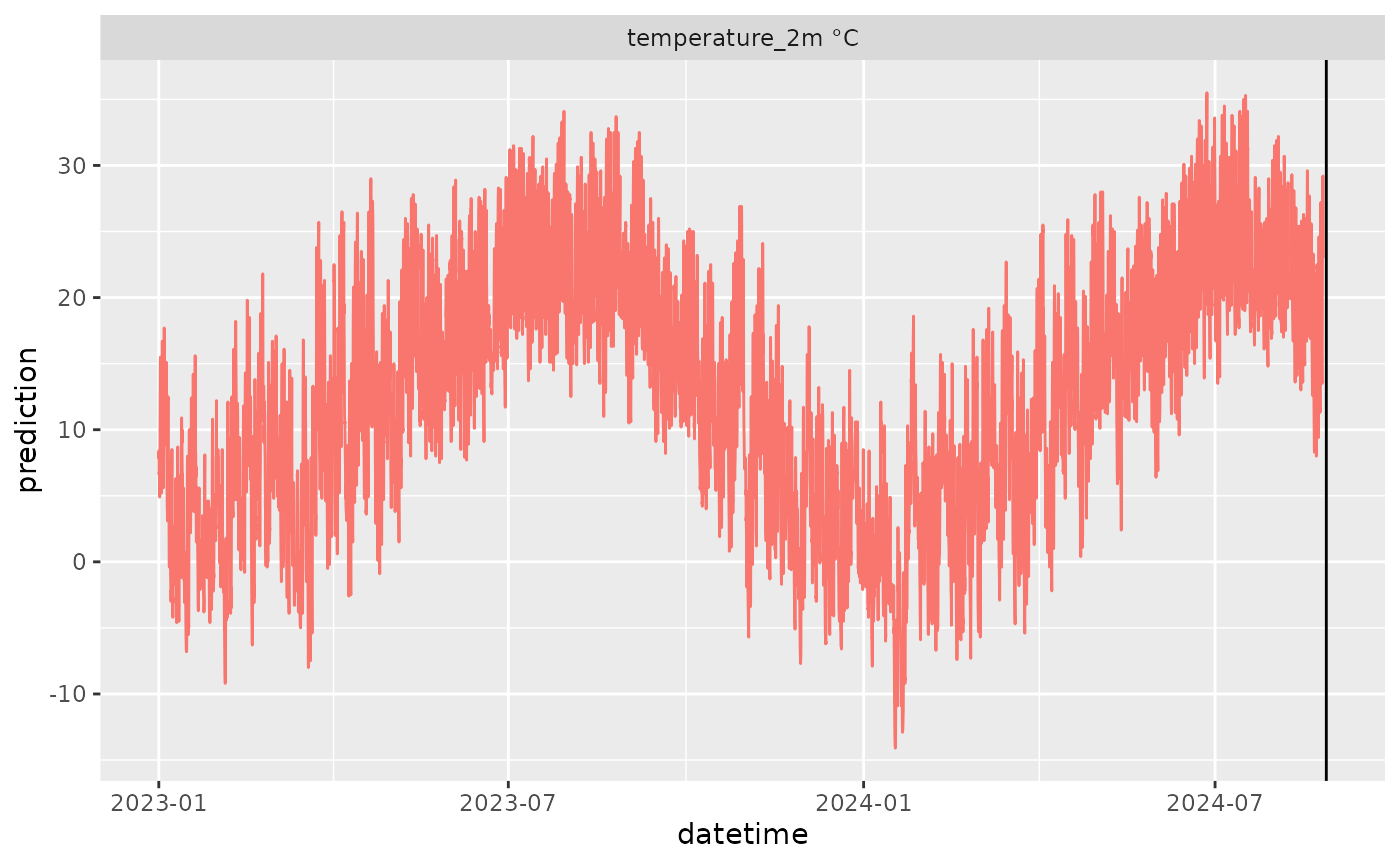
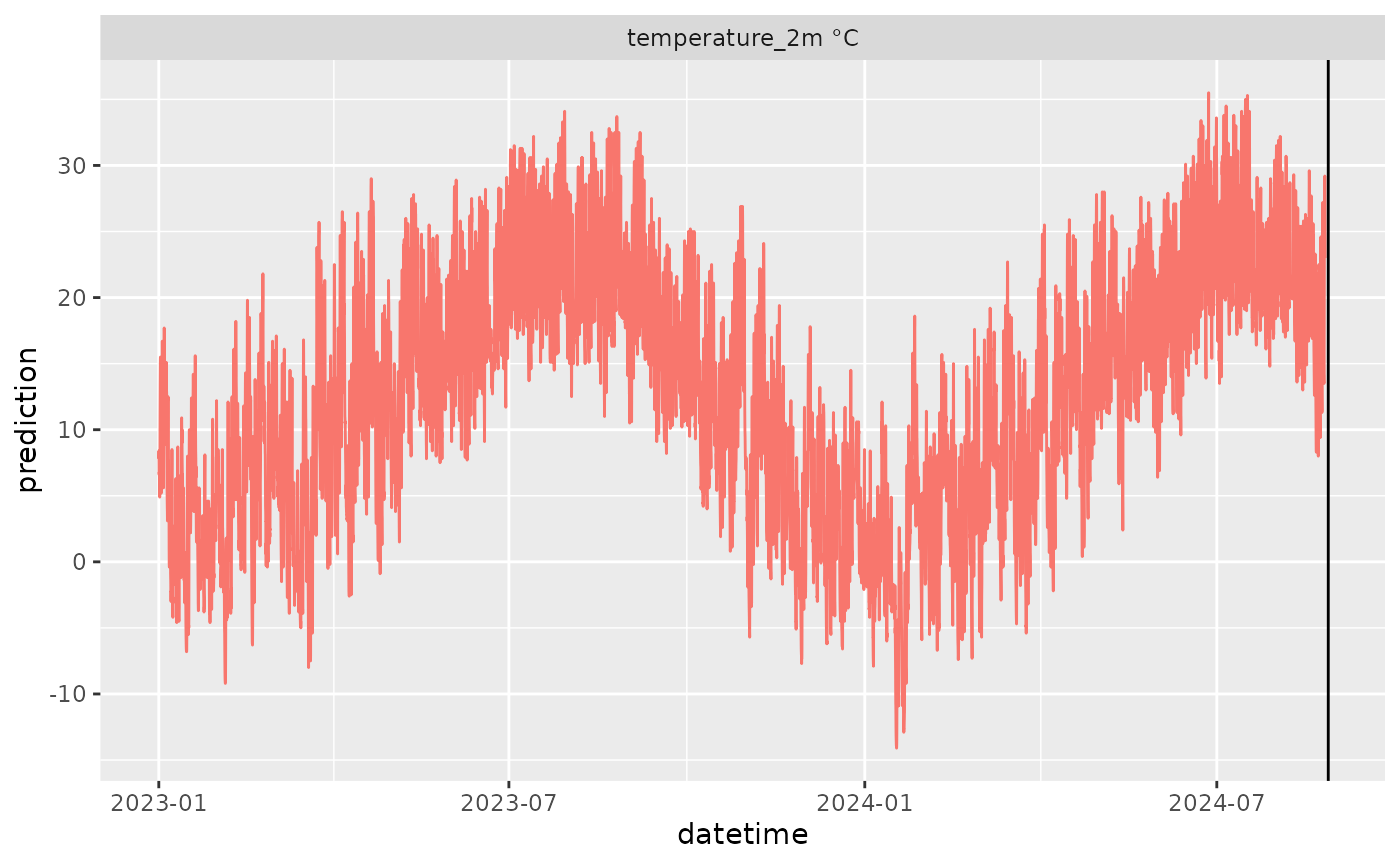
Deploying to gh-pages from @ FLARE-forecast/RopenMeteo@b63a894a33fa62a6a23b3256afc8c1f7b567f8c1 🚀

diff --git a/articles/example_usage.html b/articles/example_usage.html
@@ -269,7 +269,7 @@ API.</p>
 <span>  latitude <span class="op">=</span> <span class="fl">37.30</span>,</span>
 <span>  longitude <span class="op">=</span> <span class="op">-</span><span class="fl">79.83</span>,</span>
 <span>  start_date <span class="op">=</span> <span class="st">"2023-01-01"</span>,</span>
-<span>  end_date <span class="op">=</span> <span class="fu"><a href="https://rdrr.io/r/base/Sys.time.html" class="external-link">Sys.Date</a></span><span class="op">(</span><span class="op">)</span>,</span>
+<span>  end_date <span class="op">=</span> <span class="fu"><a href="https://rdrr.io/r/base/Sys.time.html" class="external-link">Sys.Date</a></span><span class="op">(</span><span class="op">)</span> <span class="op">-</span> <span class="fu">lubridate</span><span class="fu">::</span><span class="fu"><a href="https://lubridate.tidyverse.org/reference/period.html" class="external-link">days</a></span><span class="op">(</span><span class="fl">1</span><span class="op">)</span>,</span>
 <span>  variables <span class="op">=</span> <span class="fu"><a href="https://rdrr.io/r/base/c.html" class="external-link">c</a></span><span class="op">(</span><span class="st">"temperature_2m"</span><span class="op">)</span><span class="op">)</span> </span>
 <span><span class="fu"><a href="https://rdrr.io/r/utils/head.html" class="external-link">tail</a></span><span class="op">(</span><span class="va">df</span> <span class="op">|&gt;</span> <span class="fu"><a href="https://rdrr.io/r/stats/na.fail.html" class="external-link">na.omit</a></span><span class="op">(</span><span class="op">)</span><span class="op">)</span></span>
 <span><span class="co">#&gt; <span style="color: #949494;"># A tibble: 6 × 6</span></span></span>
@@ -289,7 +289,7 @@ API.</p>
 <span>  <span class="fu"><a href="https://ggplot2.tidyverse.org/reference/geom_path.html" class="external-link">geom_line</a></span><span class="op">(</span>color <span class="op">=</span> <span class="st">"#F8766D"</span><span class="op">)</span> <span class="op">+</span> </span>
 <span>  <span class="fu"><a href="https://ggplot2.tidyverse.org/reference/geom_abline.html" class="external-link">geom_vline</a></span><span class="op">(</span><span class="fu"><a href="https://ggplot2.tidyverse.org/reference/aes.html" class="external-link">aes</a></span><span class="op">(</span>xintercept <span class="op">=</span> <span class="fu">lubridate</span><span class="fu">::</span><span class="fu"><a href="https://lubridate.tidyverse.org/reference/with_tz.html" class="external-link">with_tz</a></span><span class="op">(</span><span class="fu"><a href="https://rdrr.io/r/base/Sys.time.html" class="external-link">Sys.time</a></span><span class="op">(</span><span class="op">)</span>, tzone <span class="op">=</span> <span class="st">"UTC"</span><span class="op">)</span><span class="op">)</span><span class="op">)</span> <span class="op">+</span> </span>
 <span>  <span class="fu"><a href="https://ggplot2.tidyverse.org/reference/facet_wrap.html" class="external-link">facet_wrap</a></span><span class="op">(</span><span class="op">~</span><span class="va">variable</span>, scale <span class="op">=</span> <span class="st">"free"</span><span class="op">)</span></span>
-<span><span class="co">#&gt; Warning: Removed 47 rows containing missing values or values outside the scale range</span></span>
+<span><span class="co">#&gt; Warning: Removed 23 rows containing missing values or values outside the scale range</span></span>
 <span><span class="co">#&gt; (`geom_line()`).</span></span></code></pre></div>
 <p><img src="example_usage_files/figure-html/hist-plot-1.png" width="700"></p>
 </div>
@@ -340,7 +340,7 @@ the NOAA Climate Forecasting System</p>
 <span>  variables <span class="op">=</span> <span class="fu"><a href="../reference/glm_variables.html">glm_variables</a></span><span class="op">(</span>product <span class="op">=</span> <span class="st">"seasonal_forecast"</span>, </span>
 <span>                            time_step <span class="op">=</span> <span class="st">"6hourly"</span><span class="op">)</span><span class="op">)</span></span>
 <span><span class="co">#&gt; Waiting 5s for throttling delay <span style="color: #00BB00;">■■■■■■                          </span></span></span>
-<span><span class="co">#&gt; Waiting 5s for throttling delay <span style="color: #00BB00;">■■■■■■■■■■■■■■■■■■■■■■          </span></span></span>
+<span><span class="co">#&gt; Waiting 5s for throttling delay <span style="color: #00BB00;">■■■■■■■■■■■■■■■■■■■■■■■         </span></span></span>
 <span><span class="co">#&gt; Waiting 5s for throttling delay <span style="color: #00BB00;">■■■■■■■■■■■■■■■■■■■■■■■■■■■■■■■ </span></span></span></code></pre></div>
 <div class="sourceCode" id="cb17"><pre class="downlit sourceCode r">
 <code class="sourceCode R"><span><span class="va">df</span> <span class="op">|&gt;</span> </span>
@@ -409,25 +409,25 @@ projection.</p>
 <span>    variables <span class="op">=</span> <span class="fu"><a href="https://rdrr.io/r/base/c.html" class="external-link">c</a></span><span class="op">(</span><span class="st">"temperature_2m_mean"</span><span class="op">)</span><span class="op">)</span></span>
 <span><span class="op">}</span><span class="op">)</span></span>
 <span><span class="co">#&gt; Waiting 5s for throttling delay <span style="color: #00BB00;">■■■■■■                          </span></span></span>
-<span><span class="co">#&gt; Waiting 5s for throttling delay <span style="color: #00BB00;">■■■■■■■■■■■■■■                  </span></span></span>
-<span><span class="co">#&gt; Waiting 5s for throttling delay <span style="color: #00BB00;">■■■■■■■■■■■■■■■■■■■■■■■■■■■■■■■ </span></span></span>
-<span><span class="co">#&gt; Waiting 6s for throttling delay <span style="color: #00BB00;">■■■■■■                          </span></span></span>
-<span><span class="co">#&gt; Waiting 6s for throttling delay <span style="color: #00BB00;">■■■■■■■■■■■■■■■■■               </span></span></span>
-<span><span class="co">#&gt; Waiting 6s for throttling delay <span style="color: #00BB00;">■■■■■■■■■■■■■■■■■■■■■■■■■■■■■■■ </span></span></span>
-<span><span class="co">#&gt; Waiting 6s for throttling delay <span style="color: #00BB00;">■■■■■■                          </span></span></span>
-<span><span class="co">#&gt; Waiting 6s for throttling delay <span style="color: #00BB00;">■■■■■■■■■■■■■■■■                </span></span></span>
-<span><span class="co">#&gt; Waiting 6s for throttling delay <span style="color: #00BB00;">■■■■■■■■■■■■■■■■■■■■■■■■■■■■■■■ </span></span></span>
-<span><span class="co">#&gt; Waiting 6s for throttling delay <span style="color: #00BB00;">■■■■■■                          </span></span></span>
-<span><span class="co">#&gt; Waiting 6s for throttling delay <span style="color: #00BB00;">■■■■■■■■■■■■■■■■                </span></span></span>
-<span><span class="co">#&gt; Waiting 6s for throttling delay <span style="color: #00BB00;">■■■■■■■■■■■■■■■■■■■■■■■■■■■■■■  </span></span></span>
-<span><span class="co">#&gt; Waiting 6s for throttling delay <span style="color: #00BB00;">■■■■■■■■■■■■■■■■■■■■■■■■■■■■■■■ </span></span></span>
 <span><span class="co">#&gt; Waiting 5s for throttling delay <span style="color: #00BB00;">■■■■■■■■■■■■■■■■■               </span></span></span>
 <span><span class="co">#&gt; Waiting 5s for throttling delay <span style="color: #00BB00;">■■■■■■■■■■■■■■■■■■■■■■■■■■■■■■■ </span></span></span>
 <span><span class="co">#&gt; Waiting 6s for throttling delay <span style="color: #00BB00;">■■■■■■                          </span></span></span>
 <span><span class="co">#&gt; Waiting 6s for throttling delay <span style="color: #00BB00;">■■■■■■■■■■■■■■■■■■■             </span></span></span>
 <span><span class="co">#&gt; Waiting 6s for throttling delay <span style="color: #00BB00;">■■■■■■■■■■■■■■■■■■■■■■■■■■■■■■■ </span></span></span>
+<span><span class="co">#&gt; Waiting 5s for throttling delay <span style="color: #00BB00;">■■■■■■                          </span></span></span>
+<span><span class="co">#&gt; Waiting 5s for throttling delay <span style="color: #00BB00;">■■■■■■■■■■■■■■■■■■■■■           </span></span></span>
+<span><span class="co">#&gt; Waiting 5s for throttling delay <span style="color: #00BB00;">■■■■■■■■■■■■■■■■■■■■■■■■■■■■■■■ </span></span></span>
+<span><span class="co">#&gt; Waiting 6s for throttling delay <span style="color: #00BB00;">■■■■■■■                         </span></span></span>
+<span><span class="co">#&gt; Waiting 6s for throttling delay <span style="color: #00BB00;">■■■■■■■■■■■■■■■■■■■■■■          </span></span></span>
+<span><span class="co">#&gt; Waiting 6s for throttling delay <span style="color: #00BB00;">■■■■■■■■■■■■■■■■■■■■■■■■■■■■■■■ </span></span></span>
+<span><span class="co">#&gt; Waiting 6s for throttling delay <span style="color: #00BB00;">■■■■■■■                         </span></span></span>
+<span><span class="co">#&gt; Waiting 6s for throttling delay <span style="color: #00BB00;">■■■■■■■■■■■■■■■■■■■■■■          </span></span></span>
+<span><span class="co">#&gt; Waiting 6s for throttling delay <span style="color: #00BB00;">■■■■■■■■■■■■■■■■■■■■■■■■■■■■■■■ </span></span></span>
 <span><span class="co">#&gt; Waiting 6s for throttling delay <span style="color: #00BB00;">■■■■■■                          </span></span></span>
-<span><span class="co">#&gt; Waiting 6s for throttling delay <span style="color: #00BB00;">■■■■■■■■■■■■■■■■■■■             </span></span></span>
+<span><span class="co">#&gt; Waiting 6s for throttling delay <span style="color: #00BB00;">■■■■■■■■■■■■■■■■■■■■■           </span></span></span>
+<span><span class="co">#&gt; Waiting 6s for throttling delay <span style="color: #00BB00;">■■■■■■■■■■■■■■■■■■■■■■■■■■■■■■■ </span></span></span>
+<span><span class="co">#&gt; Waiting 6s for throttling delay <span style="color: #00BB00;">■■■■■■                          </span></span></span>
+<span><span class="co">#&gt; Waiting 6s for throttling delay <span style="color: #00BB00;">■■■■■■■■■■■■■■■■■■■■            </span></span></span>
 <span><span class="co">#&gt; Waiting 6s for throttling delay <span style="color: #00BB00;">■■■■■■■■■■■■■■■■■■■■■■■■■■■■■■■ </span></span></span></code></pre></div>
 <div class="sourceCode" id="cb21"><pre class="downlit sourceCode r">
 <code class="sourceCode R"><span><span class="va">df</span> <span class="op">|&gt;</span> </span>
@@ -458,11 +458,12 @@ to add column that denotes the different sites.</p>
 <span>    variables <span class="op">=</span> <span class="fu"><a href="https://rdrr.io/r/base/c.html" class="external-link">c</a></span><span class="op">(</span><span class="st">"temperature_2m_mean"</span><span class="op">)</span><span class="op">)</span></span>
 <span><span class="op">}</span>,</span>
 <span><span class="va">sites</span><span class="op">)</span></span>
-<span><span class="co">#&gt; Waiting 6s for throttling delay <span style="color: #00BB00;">■■■■■■                          </span></span></span>
-<span><span class="co">#&gt; Waiting 6s for throttling delay <span style="color: #00BB00;">■■■■■■■■■■■■■■■■                </span></span></span>
-<span><span class="co">#&gt; Waiting 6s for throttling delay <span style="color: #00BB00;">■■■■■■■■■■■■■■■■■■■■■■■■■■■■■■■ </span></span></span>
-<span><span class="co">#&gt; Waiting 5s for throttling delay <span style="color: #00BB00;">■■■■■■■■■■■■■■■■■■              </span></span></span>
+<span><span class="co">#&gt; Waiting 5s for throttling delay <span style="color: #00BB00;">■■■■■■                          </span></span></span>
+<span><span class="co">#&gt; Waiting 5s for throttling delay <span style="color: #00BB00;">■■■■■■■■■■■■■■■■■■■■■           </span></span></span>
 <span><span class="co">#&gt; Waiting 5s for throttling delay <span style="color: #00BB00;">■■■■■■■■■■■■■■■■■■■■■■■■■■■■■■■ </span></span></span>
+<span><span class="co">#&gt; Waiting 6s for throttling delay <span style="color: #00BB00;">■■■■■■■                         </span></span></span>
+<span><span class="co">#&gt; Waiting 6s for throttling delay <span style="color: #00BB00;">■■■■■■■■■■■■■■■■■■■■■■          </span></span></span>
+<span><span class="co">#&gt; Waiting 6s for throttling delay <span style="color: #00BB00;">■■■■■■■■■■■■■■■■■■■■■■■■■■■■■■■ </span></span></span>
 <span><span class="fu"><a href="https://rdrr.io/r/utils/head.html" class="external-link">head</a></span><span class="op">(</span><span class="va">df</span><span class="op">)</span></span>
 <span><span class="co">#&gt; <span style="color: #949494;"># A tibble: 6 × 6</span></span></span>
 <span><span class="co">#&gt;   datetime   site_id model_id      variable            prediction unit </span></span>
@@ -501,22 +502,23 @@ applied to each hour.</p>
 <span>  model <span class="op">=</span> <span class="st">"EC_Earth3P_HR"</span>,</span>
 <span>  variables <span class="op">=</span> <span class="fu"><a href="../reference/glm_variables.html">glm_variables</a></span><span class="op">(</span>product <span class="op">=</span> <span class="st">"climate_projection"</span>, time_step <span class="op">=</span> <span class="st">"daily"</span><span class="op">)</span><span class="op">)</span></span>
 <span><span class="co">#&gt; Waiting 6s for throttling delay <span style="color: #00BB00;">■■■■■■                          </span></span></span>
-<span><span class="co">#&gt; Waiting 6s for throttling delay <span style="color: #00BB00;">■■■■■■■■■■■■■■■■■■              </span></span></span>
+<span><span class="co">#&gt; Waiting 6s for throttling delay <span style="color: #00BB00;">■■■■■■■■■■■■■■■■■■■■            </span></span></span>
 <span><span class="co">#&gt; Waiting 6s for throttling delay <span style="color: #00BB00;">■■■■■■■■■■■■■■■■■■■■■■■■■■■■■■■ </span></span></span>
 <span><span class="co">#&gt; Waiting 6s for throttling delay <span style="color: #00BB00;">■■■■■■                          </span></span></span>
-<span><span class="co">#&gt; Waiting 6s for throttling delay <span style="color: #00BB00;">■■■■■■■■■■■■■■■■■               </span></span></span>
+<span><span class="co">#&gt; Waiting 6s for throttling delay <span style="color: #00BB00;">■■■■■■■■■■■■■■■■■■■             </span></span></span>
 <span><span class="co">#&gt; Waiting 6s for throttling delay <span style="color: #00BB00;">■■■■■■■■■■■■■■■■■■■■■■■■■■■■■■■ </span></span></span>
 <span><span class="co">#&gt; Waiting 6s for throttling delay <span style="color: #00BB00;">■■■■■■                          </span></span></span>
-<span><span class="co">#&gt; Waiting 6s for throttling delay <span style="color: #00BB00;">■■■■■■■■■■■■■■■■                </span></span></span>
+<span><span class="co">#&gt; Waiting 6s for throttling delay <span style="color: #00BB00;">■■■■■■■■■■■■■■■■■■■             </span></span></span>
 <span><span class="co">#&gt; Waiting 6s for throttling delay <span style="color: #00BB00;">■■■■■■■■■■■■■■■■■■■■■■■■■■■■■■■ </span></span></span>
-<span><span class="co">#&gt; Waiting 6s for throttling delay <span style="color: #00BB00;">■■■■■■                          </span></span></span>
-<span><span class="co">#&gt; Waiting 6s for throttling delay <span style="color: #00BB00;">■■■■■■■■■■■■■■■■                </span></span></span>
+<span><span class="co">#&gt; Waiting 5s for throttling delay <span style="color: #00BB00;">■■■■■■                          </span></span></span>
+<span><span class="co">#&gt; Waiting 5s for throttling delay <span style="color: #00BB00;">■■■■■■■■■■■■■■■■■■■■■■          </span></span></span>
+<span><span class="co">#&gt; Waiting 5s for throttling delay <span style="color: #00BB00;">■■■■■■■■■■■■■■■■■■■■■■■■■■■■■■■ </span></span></span>
+<span><span class="co">#&gt; Waiting 6s for throttling delay <span style="color: #00BB00;">■■■■■■■■                        </span></span></span>
+<span><span class="co">#&gt; Waiting 6s for throttling delay <span style="color: #00BB00;">■■■■■■■■■■■■■■■■■■■■■■          </span></span></span>
 <span><span class="co">#&gt; Waiting 6s for throttling delay <span style="color: #00BB00;">■■■■■■■■■■■■■■■■■■■■■■■■■■■■■■■ </span></span></span>
-<span><span class="co">#&gt; Waiting 6s for throttling delay <span style="color: #00BB00;">■■■■■■■■■■■■■■■                 </span></span></span>
-<span><span class="co">#&gt; Waiting 6s for throttling delay <span style="color: #00BB00;">■■■■■■■■■■■■■■■■■■■■■■■■■■■■■■  </span></span></span>
-<span><span class="co">#&gt; Waiting 6s for throttling delay <span style="color: #00BB00;">■■■■■■■■■■■■■■■■■■■■■■■■■■■■■■■ </span></span></span>
-<span><span class="co">#&gt; Waiting 5s for throttling delay <span style="color: #00BB00;">■■■■■■■■■■■■■■■■■               </span></span></span>
-<span><span class="co">#&gt; Waiting 5s for throttling delay <span style="color: #00BB00;">■■■■■■■■■■■■■■■■■■■■■■■■■■■■■■■ </span></span></span></code></pre></div>
+<span><span class="co">#&gt; Waiting 6s for throttling delay <span style="color: #00BB00;">■■■■■■■                         </span></span></span>
+<span><span class="co">#&gt; Waiting 6s for throttling delay <span style="color: #00BB00;">■■■■■■■■■■■■■■■■■■■■■■          </span></span></span>
+<span><span class="co">#&gt; Waiting 6s for throttling delay <span style="color: #00BB00;">■■■■■■■■■■■■■■■■■■■■■■■■■■■■■■■ </span></span></span></code></pre></div>
 <div class="sourceCode" id="cb25"><pre class="downlit sourceCode r">
 <code class="sourceCode R"><span><span class="va">df</span> <span class="op">|&gt;</span> </span>
 <span>  <span class="fu"><a href="../reference/daily_to_hourly.html">daily_to_hourly</a></span><span class="op">(</span>latitude <span class="op">=</span> <span class="fl">37.30</span>, longitude <span class="op">=</span> <span class="op">-</span><span class="fl">79.83</span><span class="op">)</span> <span class="op">|&gt;</span> </span>
